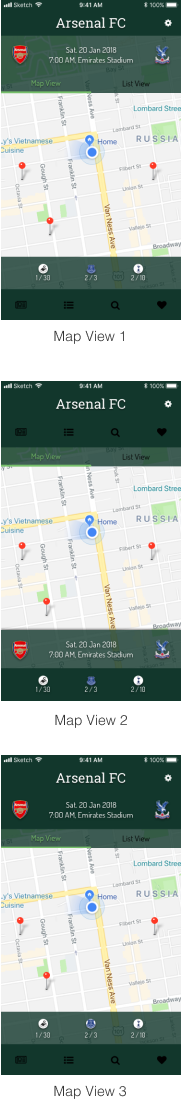
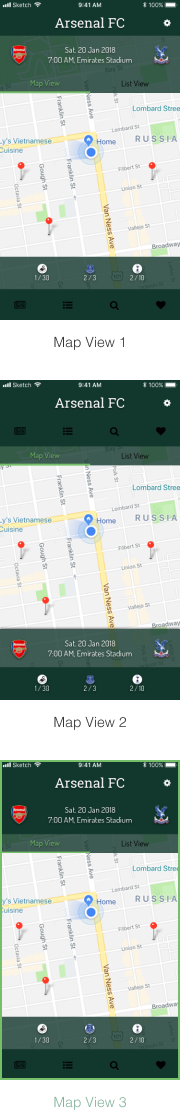
edited pref images, fixed grid system on mobile, added opacity to top nav

diff --git a/index.html b/index.html
@@ -92,11 +92,11 @@
        <div class="projects-responsive">
          <div class="responsive-container">
            <img src="newlocal_cs_images/hero_mockup.png" alt="newlocal" style="width:100%"/>
-           <p style="text-align:left;font-size:18px;">Newlocal -</p>
+           <p style="text-align:left;font-size:24px;">Newlocal -</p>
            <p style="text-align:left;">iOS application for finding your favorite sports teams local bar</p>
            <a href="http://www.nicolasmunley.com/newlocal_index.html" class="button_link">View Case Study</a>
            <img src="images/fruition_responsive.png" alt="Fruition Brewing" style="width:100%;padding-top:100px;"/>
-           <p style="text-align:left;font-size:18px;">Fruition Brewing -</p>
+           <p style="text-align:left;font-size:24px;">Fruition Brewing -</p>
            <p style="text-align:left;">Redesign concept of a craft breweries website</p>
            <a href="#" onclick="return false;" class="button_link_inactive">Case Study Coming Soon</a>
          </div>
@@ -107,11 +107,10 @@
 
        <section class="bio">
          <h3 id="abt" style="outline:none;">About</h3>
-           <p>The problem-solving skills I learned studying Civil Engineering in college coupled with a creative youth filled with ceramics and architectural design courses have helped me find a balance between data-driven functionality and aesthetically pleasing solutions.</p>
            <p>I first learned of UX design roughly 6 years ago when I was working on the self-driving car project at Google[X], where I was able to play an integral role in a team that led a study on behalf of Google at the Virginia Tech Transportation Institute. As consultants to the University, we helped set up the testing environment, wrote a user testing script and administered the tests. The experience of both administering and participating in user studies that helped shape design decisions affecting how a self-driving car operator interacts with a self-driving car really led me to start thinking about a career in UX design.</p>
+           <p>The problem-solving skills I learned studying Civil Engineering in college coupled with a creative youth filled with ceramics and architectural design courses have helped me find a balance between data-driven functionality and aesthetically pleasing solutions.</p>
            <p>Through my coursework at Bloc and working on several design projects I have been able to learn and apply design principles which create consistent products and experiences with an emphasis on usability.</p>
-           <p>You can apply design principles to almost any problem you are trying to solve or any product you are trying to build. If you are making something that a human will touch, some thought and testing should go into all aspects of the design that the human will interact with, it doesn’t matter if it’s a stove, a washer/dryer, a new banking application or a robot car. With new technologies comes new interactions and all of these interactions should be put to the test to provide the greatest chance for success.
-           </p>
+           <p>Let's connect.</p>
          </section>
 
 <!-- Footer -->

diff --git a/css/newlocal_main.css b/css/newlocal_main.css
@@ -26,13 +26,19 @@ html {
   grid-template-columns: [edge-start] minmax(1rem, 10rem) [content-start] auto 1fr repeat(6,auto) [content-end] minmax(1rem, 10rem) [edge-end];
   grid-column-gap: 1.5rem;
   padding: 0;
-  background: white;
+  background: rgba(255, 255, 255, 0.9);
   font-size: 18px;
   align-items: center;
   height: 110px;
   position: fixed;
   width: 100%;
   z-index: 100;
+}
+
+.tnav {
+  height: 110px;
+  width: 100%;
+  background: white;
 }
 
 /* Style the links inside the navigation bar */
@@ -44,6 +50,7 @@ html {
 .topnav a {
   text-decoration: none;
   color: black;
+  background: transparent;
 }
 
 .topnav a:hover {
@@ -106,7 +113,7 @@ html {
 @media screen and (max-width: 796px) {
   .topnav {
     display: grid;
-    grid-template-columns: [edge-start] minmax(1.5rem, 4rem) [content-start] auto auto minmax(1.5rem, 4rem) [edge-end];
+    grid-template-columns: [edge-start] 1.5rem [content-start] auto auto [content-end] 1.5rem [edge-end];
     grid-column-gap: 1.5rem;
   }
   .topnav a.icon {
@@ -421,6 +428,15 @@ h3 {
   }
 }
 
+@media screen and (max-width: 760px) {
+  .container_hero {
+    grid-template-columns: [edge-start] 1.5rem [content-start] auto [content-end] 1.5rem [edge-end];
+  }
+  .newlocal_logo {
+    grid-column: 2/3;
+  }
+}
+
 /* Main content */
 
 
@@ -568,6 +584,25 @@ padding-top: 60px;
   .content {
   grid-row: 3;
   grid-column: 2/12;
+  }
+  }
+
+/* small screens intro */
+
+@media screen and (max-width: 760px) {
+  .intro {
+    grid-template-columns: [edge-start] 1.5rem [content-start] auto [content-end] 1.5rem [edge-end];
+  }
+  .roles{
+  grid-column: 2/3;
+  }
+
+  .tools{
+    grid-column: 2/3;
+  }
+
+  .content {
+  grid-column: 2/3;
   }
   }
 
@@ -786,6 +821,57 @@ tr {
   display:none;
 }
 
+/* main content for phone screens */
+
+@media screen and (max-width: 760px) {
+  .center-content-header {
+    grid-column: 2/3;
+  }
+
+  .center-content {
+    grid-column: 2/3;
+  }
+  .center-button {
+    grid-column: 2/3;
+  }
+
+  .center-button-last {
+    grid-column: 2/3;
+  }
+
+  .content-left {
+    grid-column: 2/3;
+  }
+
+  .content-right {
+    grid-column: 2/3;
+  }
+
+  .container_heading {
+    grid-template-columns: [edge-start] 1.5rem [content-start] auto [content-end] 1.5rem [edge-end];
+  }
+
+  .content-half {
+    grid-template-columns: [edge-start] 1.5rem [content-start] auto [content-end] 1.5rem [edge-end];
+  }
+  .male_persona{
+    grid-column: 2/3;
+  }
+
+  .female_persona{
+    grid-column: 2/3;
+  }
+
+.centered-image {
+  grid-column: 2/3;
+}
+
+.logo-image-dev {
+  grid-column: 2/3;
+}
+
+}
+
 /* cell phone logo dev */
 
 @media screen and (max-width: 768px) {
@@ -793,14 +879,14 @@ tr {
     display: none;
   }
   .resp-logo {
-    grid-column: 2/12;
+    grid-column: 2/3;
     margin: auto;
     display: block;
   }
 }
 
 .centered-image-wf {
-  grid-column: 2/12;
+  grid-column: 2/3;
   margin: auto;
   padding-bottom: 30px;
 }
@@ -834,6 +920,7 @@ tr {
     display: none;
   }
 }
+
 
 /* Footer */
 

diff --git a/css/main.css b/css/main.css
@@ -25,7 +25,7 @@ html {
   grid-template-columns: [edge-start] minmax(1rem, 10rem) [content-start] auto 1fr repeat(3,auto) [content-end] minmax(1rem, 10rem) [edge-end];
   grid-column-gap: 1.5rem;
   padding: 0;
-  background: white;
+  background: rgb(255,255,255,.9);
   font-size: 18px;
   align-items: center;
   height: 110px;
@@ -43,7 +43,7 @@ html {
   font-size: 18px;
   text-decoration: none;
   padding: 0;
-  background: white;
+  background: transparent;
   border: none;
   color: black;
   }
@@ -478,8 +478,9 @@ backface-visibility: hidden;
 .bio p {
   grid-column: 4/10;
   padding-top: 20px;
-  margin: auto;
+  margin: auto 0px;
   line-height: 200%;
+  text-align: left;
 }
 
 /* about section for phones */

diff --git a/newlocal_index.html b/newlocal_index.html
@@ -62,7 +62,7 @@
 </div>
 
     <!-- Hero -->
-
+<div class="tnav"></div>
     <section class="container_hero">
       <div class="proto_screen"><img src="newlocal_cs_images/hero_mockup.png" alt="See Design Mockup Below" /></div>
       <div class="newlocal_logo">
